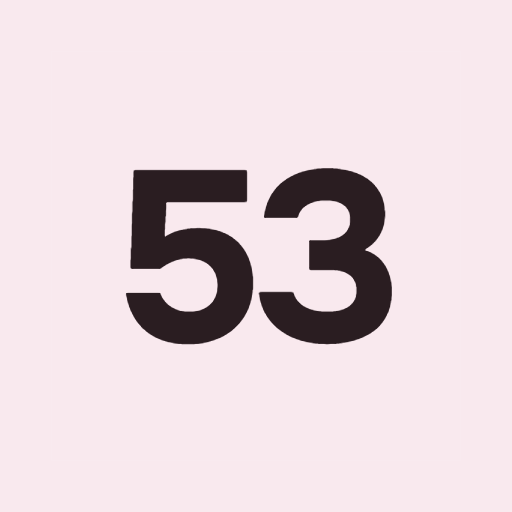
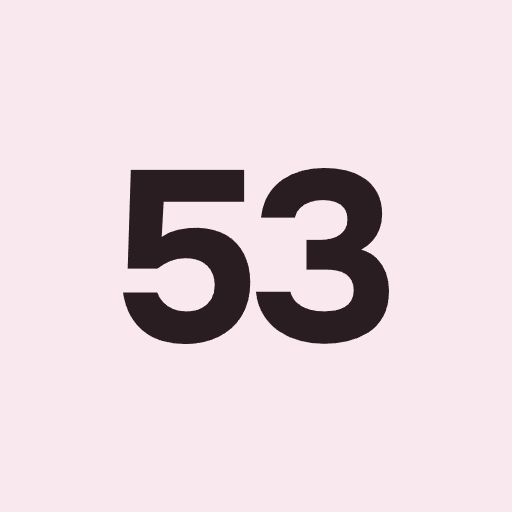
Значок 53 кривыми вместо шрифта, ссылки на значок с версией

diff --git a/tury-na-kamchatku.html b/tury-na-kamchatku.html
@@ -18,12 +18,12 @@
 <meta property="og:image:width" content="1200">
 <meta property="og:image:height" content="630">
 <meta name="twitter:card" content="summary_large_image">
-<link rel="icon" href="favicon.svg" type="image/svg+xml">
-<link rel="icon" href="favicon.ico" sizes="32x32">
-<link rel="apple-touch-icon" href="apple-touch-icon.png">
+<link rel="icon" href="favicon.svg?v=3" type="image/svg+xml">
+<link rel="icon" href="favicon.ico?v=3" sizes="32x32">
+<link rel="apple-touch-icon" href="apple-touch-icon.png?v=3">
 <link rel="manifest" href="site.webmanifest">
 <link rel="preload" href="assets/fonts/onest-cyrillic.woff2" as="font" type="font/woff2" crossorigin>
-<link rel="stylesheet" href="assets/css/styles.css?v=mvhf3xlu">
+<link rel="stylesheet" href="assets/css/styles.css?v=mvhz194c">
 <script type="application/ld+json">[{"@context":"https://schema.org","@type":"Person","name":"Елена Остащенко","jobTitle":"Преподаватель йоги, организатор йога-туров на Камчатку","url":"https://elena-53east-yoga.ru/","telephone":"+7 909 832-30-88","email":"elena.ostashenk@yandex.ru","address":{"@type":"PostalAddress","addressLocality":"Петропавловск-Камчатский","addressCountry":"RU"},"sameAs":["https://t.me/elena_53east_yoga","https://www.instagram.com/elena_53east_yoga"]},{"@context":"https://schema.org","@type":"FAQPage","mainEntity":[{"@type":"Question","name":"Можно ли пропустить восхождение или выбрать более лёгкий маршрут?","acceptedAnswer":{"@type":"Answer","text":"Да. В девятый день есть два варианта: вулкан Авача для подготовленных путешественников либо экструзия Верблюд для начинающих. Перед бронированием обсудим ваш опыт и подготовку, а решение по маршруту в конкретный день тур-лидер и гиды принимают с учётом погоды и самочувствия группы."}},{"@type":"Question","name":"Нужен ли опыт йоги для выбранного заезда и как практики сочетаются с нагрузкой на маршрутах?","acceptedAnswer":{"@type":"Answer","text":"Практики в туре ведут профильные специалисты с учётом нагрузки на маршруте и состояния каждого участника. Йога проходит вечером, после экскурсий, и помогает восстановиться после насыщенного дня. О своём опыте и подготовке можно рассказать на звонке до оплаты."}},{"@type":"Question","name":"Если я еду один или одна, как происходит подселение? Возможно ли отдельное размещение?","acceptedAnswer":{"@type":"Answer","text":"Проживание по программе в двухместных номерах. Место в номере закрепляется за участником по мере поступления заявок: верхний или нижний ярус бронируете при подтверждении заявки. Если вы едете один или одна, вас разместят вместе с другим участником группы. Возможность отдельного размещения уточните у тур-лидера при заявке."}},{"@type":"Question","name":"Что взять на маршруты и какое снаряжение предоставляют организаторы?","acceptedAnswer":{"@type":"Answer","text":"Необходимое на маршруте снаряжение входит в стоимость тура. Полный список личных вещей обсуждаем на звонке после заявки. Обязательно возьмите непромокаемую куртку и штаны, тёплую одежду слоями и головной убор, удобную обувь для треков, рюкзак, купальник и полотенце для термальных источников, налобный фонарь, powerbank, личную аптечку и солнцезащиту."}},{"@type":"Question","name":"Что произойдёт, если из-за погоды отменится морская прогулка или восхождение: замена, перенос или перерасчёт?","acceptedAnswer":{"@type":"Answer","text":"Программа может меняться в связи с погодой, решение принимается тур-лидером и гидами накануне экскурсии. Выход в море зависит от отливов и погоды на воде, поэтому дата держится гидом до последнего. Задача тур-лидера провести тур так, чтобы даже дни непогоды вы провели с наибольшим результатом и точно их не потеряли."}},{"@type":"Question","name":"Как оплачивается остаток после предоплаты 20%? Можно ли платить частями?","acceptedAnswer":{"@type":"Answer","text":"Предоплата 20% фиксирует место в группе, остаток вносится перед выездом по договоренности с тур-лидером, без скрытых доплат.\nМожно оплатить частями: рассрочка от банка либо беспроцентная рассрочка от тур-лидера, ежемесячный платёж на весь срок, с заключением договора. Детали и график платежей обсуждаем после заявки."}},{"@type":"Question","name":"Можно ли отменить участие или перенести бронь на другой заезд? Как рассчитывается возврат?","acceptedAnswer":{"@type":"Answer","text":"Условия отмены и переноса фиксируются в договоре. При отказе от участия до начала тура возвращается уплаченная сумма за вычетом фактически понесённых расходов на подготовку поездки. Перенос на другой заезд 2027 года возможен при наличии свободных мест, его обсуждаем с тур-лидером."}},{"@type":"Question","name":"Когда покупать авиабилеты — после заявки или подтверждения места? Что делать при задержке рейса?","acceptedAnswer":{"@type":"Answer","text":"Покупайте билеты после подтверждения места в группе и согласования с организатором времени прилёта. Встреча в аэропорту Елизово проходит в первый день с 09:00 до 18:00, трансфер в аэропорт в последний день в 13:00. Если рейс задерживается, сразу сообщите тур-лидеру по телефону +7 909 832-30-88, чтобы договориться о встрече."}}]},{"@context":"https://schema.org","@type":"TouristTrip","name":"Йога-тур на Камчатку 3–12 июля 2027 с Марией Хавкиной","description":"Йога-тур на Камчатку, десятидневная программа","touristType":"Йога и активный отдых","subjectOf":{"@type":"Event","name":"Йога-тур 3–12 июля 2027","startDate":"2027-07-03","endDate":"2027-07-12","eventAttendanceMode":"https://schema.org/OfflineEventAttendanceMode","location":{"@type":"Place","name":"Камчатка","address":{"@type":"PostalAddress","addressLocality":"Петропавловск-Камчатский","addressCountry":"RU"}},"organizer":{"@type":"Person","name":"Елена Остащенко","url":"https://elena-53east-yoga.ru/ob-elene.html"},"offers":{"@type":"AggregateOffer","priceCurrency":"RUB","lowPrice":230000,"highPrice":250000,"url":"https://elena-53east-yoga.ru/tury-na-kamchatku.html"}}},{"@context":"https://schema.org","@type":"TouristTrip","name":"Йога-тур на Камчатку 15–24 июля 2027 с Дмитрием Дёминым и Глебом Мазаевым","description":"Йога-тур на Камчатку, десятидневная программа","touristType":"Йога и активный отдых","subjectOf":{"@type":"Event","name":"Йога-тур 15–24 июля 2027","startDate":"2027-07-15","endDate":"2027-07-24","eventAttendanceMode":"https://schema.org/OfflineEventAttendanceMode","location":{"@type":"Place","name":"Камчатка","address":{"@type":"PostalAddress","addressLocality":"Петропавловск-Камчатский","addressCountry":"RU"}},"organizer":{"@type":"Person","name":"Елена Остащенко","url":"https://elena-53east-yoga.ru/ob-elene.html"},"offers":{"@type":"AggregateOffer","priceCurrency":"RUB","lowPrice":260000,"highPrice":280000,"url":"https://elena-53east-yoga.ru/tury-na-kamchatku.html"}}},{"@context":"https://schema.org","@type":"TouristTrip","name":"Йога-тур на Камчатку 19–28 августа 2027 с Игорем Пантюшевым","description":"Йога-тур на Камчатку, десятидневная программа","touristType":"Йога и активный отдых","subjectOf":{"@type":"Event","name":"Йога-тур 19–28 августа 2027","startDate":"2027-08-19","endDate":"2027-08-28","eventAttendanceMode":"https://schema.org/OfflineEventAttendanceMode","location":{"@type":"Place","name":"Камчатка","address":{"@type":"PostalAddress","addressLocality":"Петропавловск-Камчатский","addressCountry":"RU"}},"organizer":{"@type":"Person","name":"Елена Остащенко","url":"https://elena-53east-yoga.ru/ob-elene.html"},"offers":{"@type":"AggregateOffer","priceCurrency":"RUB","lowPrice":230000,"highPrice":250000,"url":"https://elena-53east-yoga.ru/tury-na-kamchatku.html"}}},{"@context":"https://schema.org","@type":"TouristTrip","name":"Йога-тур на Камчатку 12–19 сентября 2027 с Юлией Батыцкой","description":"Курильское озеро, отдельный восьмидневный тур","touristType":"Йога и активный отдых","subjectOf":{"@type":"Event","name":"Йога-тур 12–19 сентября 2027","startDate":"2027-09-12","endDate":"2027-09-19","eventAttendanceMode":"https://schema.org/OfflineEventAttendanceMode","location":{"@type":"Place","name":"Камчатка","address":{"@type":"PostalAddress","addressLocality":"Петропавловск-Камчатский","addressCountry":"RU"}},"organizer":{"@type":"Person","name":"Елена Остащенко","url":"https://elena-53east-yoga.ru/ob-elene.html"},"offers":{"@type":"AggregateOffer","priceCurrency":"RUB","lowPrice":230000,"highPrice":250000,"url":"https://elena-53east-yoga.ru/kurilskoe-ozero.html"}}}]</script>
 </head>
 <body class="t-sage" data-fly>
@@ -819,6 +819,6 @@
   <button class="lb__nav lb__next" type="button" data-lb-next aria-label="Следующее фото" hidden><svg class="ic" viewBox="0 0 24 24" aria-hidden="true" focusable="false"><path d="M4 12h15m-5-5 5 5-5 5"/></svg></button>
   <figure class="lb__f"><figcaption></figcaption></figure>
 </dialog>
-<script src="assets/js/script.js?v=mvhf3xlu" defer></script>
+<script src="assets/js/script.js?v=mvhz194c" defer></script>
 </body>
 </html>

diff --git a/kurilskoe-ozero.html b/kurilskoe-ozero.html
@@ -18,12 +18,12 @@
 <meta property="og:image:width" content="1200">
 <meta property="og:image:height" content="630">
 <meta name="twitter:card" content="summary_large_image">
-<link rel="icon" href="favicon.svg" type="image/svg+xml">
-<link rel="icon" href="favicon.ico" sizes="32x32">
-<link rel="apple-touch-icon" href="apple-touch-icon.png">
+<link rel="icon" href="favicon.svg?v=3" type="image/svg+xml">
+<link rel="icon" href="favicon.ico?v=3" sizes="32x32">
+<link rel="apple-touch-icon" href="apple-touch-icon.png?v=3">
 <link rel="manifest" href="site.webmanifest">
 <link rel="preload" href="assets/fonts/onest-cyrillic.woff2" as="font" type="font/woff2" crossorigin>
-<link rel="stylesheet" href="assets/css/styles.css?v=mvhf3xlu">
+<link rel="stylesheet" href="assets/css/styles.css?v=mvhz194c">
 <script type="application/ld+json">[{"@context":"https://schema.org","@type":"Person","name":"Елена Остащенко","jobTitle":"Преподаватель йоги, организатор йога-туров на Камчатку","url":"https://elena-53east-yoga.ru/","telephone":"+7 909 832-30-88","email":"elena.ostashenk@yandex.ru","address":{"@type":"PostalAddress","addressLocality":"Петропавловск-Камчатский","addressCountry":"RU"},"sameAs":["https://t.me/elena_53east_yoga","https://www.instagram.com/elena_53east_yoga"]},{"@context":"https://schema.org","@type":"FAQPage","mainEntity":[{"@type":"Question","name":"Правда ли, что к медведям можно подойти близко?","acceptedAnswer":{"@type":"Answer","text":"Наблюдение проходит с оборудованных смотровых площадок и под руководством инспектора заказника. Медведи заняты рыбой, но это дикие животные: мы движемся тихо, не отходим от группы и не оставляем еду без присмотра. Именно так можно часами смотреть, как медведи ловят нерку."}},{"@type":"Question","name":"Какая физическая нагрузка?","acceptedAnswer":{"@type":"Answer","text":"Лёгкая: пешие экскурсии до 3–4 км в день по пересечённой местности с лёгким рюкзаком. Длинные переезды проходят на транспорте и катерах. Опциональное восхождение на вулкан — отдельный разговор с группой в зависимости от погоды и самочувствия."}},{"@type":"Question","name":"Нужен ли опыт в йоге?","acceptedAnswer":{"@type":"Answer","text":"Нет. Практики проходят каждый день в размеренном темпе и подходят новичкам: если группа устала после дороги или трека, занятие адаптируется."}},{"@type":"Question","name":"Будут ли на озере мобильная связь, интернет и возможность зарядить телефон?","acceptedAnswer":{"@type":"Answer","text":"В городе интернет доступен. На кордонах Южно-Камчатского заказника связи почти нет — это часть впечатления. Перед выездом в поездку рекомендуем предупредить близких, что связь будет с перебоями. Возьмите с собой powerbank и запас батарей для фотокамеры."}},{"@type":"Question","name":"Можно ли поехать с ребёнком? Какие условия участия и стоимость для детей?","acceptedAnswer":{"@type":"Answer","text":"Да, можно. За ребёнка платится полная стоимость тура, потому что основные расходы приходятся на транспорт и проживание."}},{"@type":"Question","name":"Какая предоплата закрепляет место и когда вносится оставшаяся сумма?","acceptedAnswer":{"@type":"Answer","text":"Предоплата 20% фиксирует место в группе, остаток вносится перед выездом по договоренности с тур-лидером. Стоимость зависит от варианта размещения — от 230 000 до 250 000 ₽. Группа до 24 человек, поэтому рекомендуем не тянуть с решением."}},{"@type":"Question","name":"Что произойдёт, если погода не позволит добраться до озера или выполнить часть программы?","acceptedAnswer":{"@type":"Answer","text":"Тур рассчитан на такой сезон, водителя и маршрут, что до озера мы добираемся даже в непогоду и шторм. На самом озере жизнь не останавливается, и наблюдение за медведями в плохую погоду продолжается. Тур-лидер координирует все детали и при необходимости меняет маршрут и программу под погоду."}},{"@type":"Question","name":"Как отменить участие или перенести поездку? Какие условия возврата?","acceptedAnswer":{"@type":"Answer","text":"Условия отмены и переноса фиксируются в договоре. При отказе от участия до начала тура возвращается уплаченная сумма за вычетом фактически понесённых расходов на подготовку поездки, в том числе пропусков и бронирований. Вопрос переноса обсуждаем с тур-лидером."}}]},{"@context":"https://schema.org","@type":"TouristTrip","name":"Йога-тур на Курильское озеро с Юлией Батыцкой","description":"8 дней от Петропавловска-Камчатского до Южно-Камчатского заказника: нерест нерки, бурые медведи, ежедневные практики йоги.","subjectOf":{"@type":"Event","name":"Йога-тур на Курильское озеро 2027","startDate":"2027-09-12","endDate":"2027-09-19","eventAttendanceMode":"https://schema.org/OfflineEventAttendanceMode","location":{"@type":"Place","name":"Курильское озеро, Южно-Камчатский заказник","address":{"@type":"PostalAddress","addressRegion":"Камчатский край","addressCountry":"RU"}},"organizer":{"@type":"Person","name":"Елена Остащенко"},"performer":{"@type":"Person","name":"Юлия Батыцкая"},"offers":{"@type":"AggregateOffer","priceCurrency":"RUB","lowPrice":230000,"highPrice":250000,"url":"https://elena-53east-yoga.ru/kurilskoe-ozero.html"}}}]</script>
 </head>
 <body class="t-sage" data-fly>
@@ -435,6 +435,6 @@
   <button class="lb__nav lb__next" type="button" data-lb-next aria-label="Следующее фото" hidden><svg class="ic" viewBox="0 0 24 24" aria-hidden="true" focusable="false"><path d="M4 12h15m-5-5 5 5-5 5"/></svg></button>
   <figure class="lb__f"><figcaption></figcaption></figure>
 </dialog>
-<script src="assets/js/script.js?v=mvhf3xlu" defer></script>
+<script src="assets/js/script.js?v=mvhz194c" defer></script>
 </body>
 </html>

diff --git a/onlajn-klub.html b/onlajn-klub.html
@@ -18,13 +18,13 @@
 <meta property="og:image:width" content="1200">
 <meta property="og:image:height" content="630">
 <meta name="twitter:card" content="summary_large_image">
-<link rel="icon" href="favicon.svg" type="image/svg+xml">
-<link rel="icon" href="favicon.ico" sizes="32x32">
-<link rel="apple-touch-icon" href="apple-touch-icon.png">
+<link rel="icon" href="favicon.svg?v=3" type="image/svg+xml">
+<link rel="icon" href="favicon.ico?v=3" sizes="32x32">
+<link rel="apple-touch-icon" href="apple-touch-icon.png?v=3">
 <link rel="manifest" href="site.webmanifest">
 <link rel="preload" href="assets/fonts/onest-cyrillic.woff2" as="font" type="font/woff2" crossorigin>
 <link rel="preload" as="image" href="assets/img/club-plank-cut-hd.webp" fetchpriority="high">
-<link rel="stylesheet" href="assets/css/styles.css?v=mvhf3xlu">
+<link rel="stylesheet" href="assets/css/styles.css?v=mvhz194c">
 <script type="application/ld+json">[{"@context":"https://schema.org","@type":"Person","name":"Елена Остащенко","jobTitle":"Преподаватель йоги, организатор йога-туров на Камчатку","url":"https://elena-53east-yoga.ru/","telephone":"+7 909 832-30-88","email":"elena.ostashenk@yandex.ru","address":{"@type":"PostalAddress","addressLocality":"Петропавловск-Камчатский","addressCountry":"RU"},"sameAs":["https://t.me/elena_53east_yoga","https://www.instagram.com/elena_53east_yoga"]},{"@context":"https://schema.org","@type":"FAQPage","mainEntity":[{"@type":"Question","name":"С какой практики начать, если я раньше не занимался или давно не тренировался?","acceptedAnswer":{"@type":"Answer","text":"Начните с открытых практик на этой странице: «Зарядка для спины, МФР, пранаяма и квадрат дыхания» и «Антистресс дыхание и медитация» подходят для мягкого старта. В клубе любой уровень подготовки: и новичок, и опытный практик смогут рассчитать актуальную для себя нагрузку. Если сомневаетесь, задайте вопрос Елене до вступления."}},{"@type":"Question","name":"Получу ли я обратную связь, если занимаюсь только по записям? Как задать вопрос или показать выполнение упражнения?","acceptedAnswer":{"@type":"Answer","text":"Да. В клубе есть чат поддержки и возможность задать вопрос тренеру, даже если вы занимаетесь только в записи. Как удобнее показать выполнение упражнения, договоритесь с Еленой в чате."}},{"@type":"Question","name":"Какое оборудование и техника нужны для занятий дома?","acceptedAnswer":{"@type":"Answer","text":"Устройство с доступом в интернет: компьютер, ноутбук, планшет или смартфон, рекомендуемая скорость не менее 2 Мбит/с. Для практики понадобятся коврик и немного свободного места. Если для занятия нужно что-то ещё, Елена предупредит заранее."}},{"@type":"Question","name":"На какой срок открывается библиотека? Сохраняется ли доступ после окончания оплаченного месяца?","acceptedAnswer":{"@type":"Answer","text":"Записи эфиров и библиотека 60+ занятий доступны участникам клуба на время оплаченного участия. Точный срок хранения записей после окончания месяца уточните у Елены перед оплатой."}},{"@type":"Question","name":"Как продлевается участие: самостоятельная оплата или автоматическое списание?","acceptedAnswer":{"@type":"Answer","text":"Участие оплачивается помесячно, 2700 рублей в месяц. Порядок продления показывается на платформе клуба при оформлении. Если что-то непонятно, напишите Елене до оплаты."}},{"@type":"Question","name":"Можно ли приостановить участие или отказаться от него? Какие условия возврата?","acceptedAnswer":{"@type":"Answer","text":"Отказаться от услуг можно в любое время, направив уведомление по электронной почте или через форму на сайте. Условия возврата описаны в разделе 9 публичной оферты: до начала занятий возвращается сумма за вычетом фактически понесённых расходов, после начала — пропорционально неиспользованным занятиям. Деньги возвращаются в течение 3 рабочих дней после заявления."}},{"@type":"Question","name":"Что делать, если после оплаты не пришло письмо или не получается войти?","acceptedAnswer":{"@type":"Answer","text":"Проверьте папку «Спам» и адрес почты, указанный при оформлении. Если письма нет, напишите Елене в Telegram или на elena.ostashenk@yandex.ru, и доступ восстановят."}},{"@type":"Question","name":"Как пользоваться клубом всей семьёй: достаточно одного доступа или нужно отдельное участие?","acceptedAnswer":{"@type":"Answer","text":"Клуб задуман так, чтобы заниматься в удобное время, в удобном месте и всей семьёй. Подойдёт ли один доступ именно вашей семье, уточните у Елены перед оплатой."}}]},{"@context":"https://schema.org","@type":"Service","name":"Онлайн-клуб «Йога на 53 широте»","serviceType":"Онлайн-занятия йогой","provider":{"@type":"Person","name":"Елена Остащенко"},"areaServed":"RU","offers":{"@type":"Offer","price":2700,"priceCurrency":"RUB","url":"https://elena-53east-yoga.ru/onlajn-klub.html"}}]</script>
 </head>
 <body class="t-pink">
@@ -396,6 +396,6 @@
   <button class="lb__nav lb__next" type="button" data-lb-next aria-label="Следующее фото" hidden><svg class="ic" viewBox="0 0 24 24" aria-hidden="true" focusable="false"><path d="M4 12h15m-5-5 5 5-5 5"/></svg></button>
   <figure class="lb__f"><figcaption></figcaption></figure>
 </dialog>
-<script src="assets/js/script.js?v=mvhf3xlu" defer></script>
+<script src="assets/js/script.js?v=mvhz194c" defer></script>
 </body>
 </html>

diff --git a/zanyatiya.html b/zanyatiya.html
@@ -18,12 +18,12 @@
 <meta property="og:image:width" content="1200">
 <meta property="og:image:height" content="630">
 <meta name="twitter:card" content="summary_large_image">
-<link rel="icon" href="favicon.svg" type="image/svg+xml">
-<link rel="icon" href="favicon.ico" sizes="32x32">
-<link rel="apple-touch-icon" href="apple-touch-icon.png">
+<link rel="icon" href="favicon.svg?v=3" type="image/svg+xml">
+<link rel="icon" href="favicon.ico?v=3" sizes="32x32">
+<link rel="apple-touch-icon" href="apple-touch-icon.png?v=3">
 <link rel="manifest" href="site.webmanifest">
 <link rel="preload" href="assets/fonts/onest-cyrillic.woff2" as="font" type="font/woff2" crossorigin>
-<link rel="stylesheet" href="assets/css/styles.css?v=mvhf3xlu">
+<link rel="stylesheet" href="assets/css/styles.css?v=mvhz194c">
 <script type="application/ld+json">[{"@context":"https://schema.org","@type":"Person","name":"Елена Остащенко","jobTitle":"Преподаватель йоги, организатор йога-туров на Камчатку","url":"https://elena-53east-yoga.ru/","telephone":"+7 909 832-30-88","email":"elena.ostashenk@yandex.ru","address":{"@type":"PostalAddress","addressLocality":"Петропавловск-Камчатский","addressCountry":"RU"},"sameAs":["https://t.me/elena_53east_yoga","https://www.instagram.com/elena_53east_yoga"]},{"@context":"https://schema.org","@type":"FAQPage","mainEntity":[{"@type":"Question","name":"Как выбрать между групповой и персональной практикой, если начинаю впервые?","acceptedAnswer":{"@type":"Answer","text":"Групповые занятия в PROTEIN подойдут, если хочется заниматься по расписанию в компании: Елена подробно объясняет каждую асану и помогает рассчитать нагрузку. Персональная тренировка подойдёт, если нужен план под ваши задачи: она начинается с тестирования физического состояния. Если сомневаетесь, напишите Елене, она подскажет."}},{"@type":"Question","name":"Можно ли посетить групповое занятие без абонемента PROTEIN? Как оплачивается первое посещение?","acceptedAnswer":{"@type":"Answer","text":"Условия разового посещения и оплаты устанавливает фитнес-клуб PROTEIN. Уточните их у администратора или на официальном сайте клуба, а Елена подскажет, на какое занятие лучше прийти."}},{"@type":"Question","name":"Что взять на первое занятие? Предоставляется ли оборудование?","acceptedAnswer":{"@type":"Answer","text":"Удобную одежду, которая не сковывает движения, и воду. Наличие ковриков в зале уточните заранее. Перед первым занятием расскажите Елене о состоянии здоровья и противопоказаниях."}},{"@type":"Question","name":"Как выбрать место персональной тренировки? Кто оплачивает аренду студии и выезд?","acceptedAnswer":{"@type":"Answer","text":"Тренер выезжает к вам в удобное время и место по взаимной договоренности, в отдаленные районы за доплату. Есть возможность аренды студии. Место, время и стоимость аренды согласуем до оплаты."}},{"@type":"Question","name":"За какое время нужно предупредить о переносе или отмене тренировки?","acceptedAnswer":{"@type":"Answer","text":"Для офлайн-занятий не менее чем за 12 часов до начала. При более поздней отмене или неявке занятие считается проведённым. Подробно в разделе 7 публичной оферты."}},{"@type":"Question","name":"Какие требования к помещению и оборудованию для корпоративной практики?","acceptedAnswer":{"@type":"Answer","text":"Зал, оборудование и коллектив предоставляет принимающая сторона, тренер приносит знания, опыт и время. Площадь зала и количество ковриков обсуждаем при согласовании."}},{"@type":"Question","name":"Можно ли организовать регулярные корпоративные занятия? Как согласуются график и условия?","acceptedAnswer":{"@type":"Answer","text":"Да. Практика 60 минут стоит 8000 рублей вне зависимости от количества практикующих. График и условия фиксируем в договоре."}}]},{"@context":"https://schema.org","@type":"Service","name":"Персональные тренировки по йоге","provider":{"@type":"Person","name":"Елена Остащенко"},"areaServed":"Петропавловск-Камчатский","offers":[{"@type":"Offer","price":4000,"priceCurrency":"RUB","name":"1 чел., 60 минут"},{"@type":"Offer","price":5000,"priceCurrency":"RUB","name":"2 чел., 60 минут"},{"@type":"Offer","price":6000,"priceCurrency":"RUB","name":"3 чел., 60 минут"}]}]</script>
 </head>
 <body class="t-pink">
@@ -376,6 +376,6 @@
   <button class="lb__nav lb__next" type="button" data-lb-next aria-label="Следующее фото" hidden><svg class="ic" viewBox="0 0 24 24" aria-hidden="true" focusable="false"><path d="M4 12h15m-5-5 5 5-5 5"/></svg></button>
   <figure class="lb__f"><figcaption></figcaption></figure>
 </dialog>
-<script src="assets/js/script.js?v=mvhf3xlu" defer></script>
+<script src="assets/js/script.js?v=mvhz194c" defer></script>
 </body>
 </html>

diff --git a/organizaciya-tura.html b/organizaciya-tura.html
@@ -18,12 +18,12 @@
 <meta property="og:image:width" content="1200">
 <meta property="og:image:height" content="630">
 <meta name="twitter:card" content="summary_large_image">
-<link rel="icon" href="favicon.svg" type="image/svg+xml">
-<link rel="icon" href="favicon.ico" sizes="32x32">
-<link rel="apple-touch-icon" href="apple-touch-icon.png">
+<link rel="icon" href="favicon.svg?v=3" type="image/svg+xml">
+<link rel="icon" href="favicon.ico?v=3" sizes="32x32">
+<link rel="apple-touch-icon" href="apple-touch-icon.png?v=3">
 <link rel="manifest" href="site.webmanifest">
 <link rel="preload" href="assets/fonts/onest-cyrillic.woff2" as="font" type="font/woff2" crossorigin>
-<link rel="stylesheet" href="assets/css/styles.css?v=mvhf3xlu">
+<link rel="stylesheet" href="assets/css/styles.css?v=mvhz194c">
 <script type="application/ld+json">[{"@context":"https://schema.org","@type":"Person","name":"Елена Остащенко","jobTitle":"Преподаватель йоги, организатор йога-туров на Камчатку","url":"https://elena-53east-yoga.ru/","telephone":"+7 909 832-30-88","email":"elena.ostashenk@yandex.ru","address":{"@type":"PostalAddress","addressLocality":"Петропавловск-Камчатский","addressCountry":"RU"},"sameAs":["https://t.me/elena_53east_yoga","https://www.instagram.com/elena_53east_yoga"]},{"@context":"https://schema.org","@type":"FAQPage","mainEntity":[{"@type":"Question","name":"Что покрывает стоимость организации 15 000 ₽ за участника, а какие расходы группы оплачиваются отдельно?","acceptedAnswer":{"@type":"Answer","text":"15 000 рублей за участника — работа организатора с начала взаимодействия и до убытия группы: определение стоимости тура, взаимодействие с исполнителями и полное сопровождение, организация проживания и питания, закрытие всех потребностей участников. Проживание, питание, транспорт и экскурсии оплачиваются по стоимости исполнителей. Сценарий и лендинг, проведение практики Еленой и участие приглашённым экспертом оплачиваются отдельно."}},{"@type":"Question","name":"Можно ли приехать со своим преподавателем и заказать только организацию?","acceptedAnswer":{"@type":"Answer","text":"Да, можно приехать со своим преподавателем. Преподавание в туре идёт отдельной опцией, поэтому организацию можно заказать без неё."}},{"@type":"Question","name":"Можно ли разработать маршрут под нашу группу? Какие направления доступны?","acceptedAnswer":{"@type":"Answer","text":"Да, сценарий разрабатывается под вашу группу, это отдельная услуга. Елена организовывала и сопровождала поездки по Камчатке и в Индию. Направление и программу обсуждаем на первом созвоне."}},{"@type":"Question","name":"За сколько времени нужно обращаться и какой размер группы возможен?","acceptedAnswer":{"@type":"Answer","text":"Работа над камчатским туром начинается примерно за год: заранее бронируются транспорт, гостиницы и повара. Чем раньше вы обратитесь, тем больше вариантов. В проведённых турах были группы от 6 до 23 участников."}},{"@type":"Question","name":"Как изменятся стоимость и бронирования, если число участников поменяется?","acceptedAnswer":{"@type":"Answer","text":"Стоимость организации считается за каждого участника и меняется вместе с размером группы. Как изменение повлияет на бронирования у исполнителей, обсуждаем сразу, как только оно становится известно."}},{"@type":"Question","name":"Каковы условия предоплаты, отмены и переноса тура для группы?","acceptedAnswer":{"@type":"Answer","text":"Условия предоплаты, отмены и переноса фиксируются в договоре и зависят от условий бронирования у исполнителей. Их согласуем до начала подготовки."}}]}]</script>
 </head>
 <body class="t-sage">
@@ -330,6 +330,6 @@
   <button class="lb__nav lb__next" type="button" data-lb-next aria-label="Следующее фото" hidden><svg class="ic" viewBox="0 0 24 24" aria-hidden="true" focusable="false"><path d="M4 12h15m-5-5 5 5-5 5"/></svg></button>
   <figure class="lb__f"><figcaption></figcaption></figure>
 </dialog>
-<script src="assets/js/script.js?v=mvhf3xlu" defer></script>
+<script src="assets/js/script.js?v=mvhz194c" defer></script>
 </body>
 </html>

diff --git a/mariya-havkina-vizitka.html b/mariya-havkina-vizitka.html
@@ -18,12 +18,12 @@
 <meta property="og:image:width" content="1200">
 <meta property="og:image:height" content="630">
 <meta name="twitter:card" content="summary_large_image">
-<link rel="icon" href="favicon.svg" type="image/svg+xml">
-<link rel="icon" href="favicon.ico" sizes="32x32">
-<link rel="apple-touch-icon" href="apple-touch-icon.png">
+<link rel="icon" href="favicon.svg?v=3" type="image/svg+xml">
+<link rel="icon" href="favicon.ico?v=3" sizes="32x32">
+<link rel="apple-touch-icon" href="apple-touch-icon.png?v=3">
 <link rel="manifest" href="site.webmanifest">
 <link rel="preload" href="assets/fonts/onest-cyrillic.woff2" as="font" type="font/woff2" crossorigin>
-<link rel="stylesheet" href="assets/css/styles.css?v=mvhf3xlu">
+<link rel="stylesheet" href="assets/css/styles.css?v=mvhz194c">
 <script type="application/ld+json">[{"@context":"https://schema.org","@type":"Person","name":"Елена Остащенко","jobTitle":"Преподаватель йоги, организатор йога-туров на Камчатку","url":"https://elena-53east-yoga.ru/","telephone":"+7 909 832-30-88","email":"elena.ostashenk@yandex.ru","address":{"@type":"PostalAddress","addressLocality":"Петропавловск-Камчатский","addressCountry":"RU"},"sameAs":["https://t.me/elena_53east_yoga","https://www.instagram.com/elena_53east_yoga"]},{"@context":"https://schema.org","@type":"Person","name":"Мария Хавкина","jobTitle":"Врач, йогатерапевт, психолог","image":"https://elena-53east-yoga.ru/assets/img/maria-2.webp","sameAs":["https://t.me/mary_pishet","https://vk.com/ehi_lesnaja"]},{"@context":"https://schema.org","@type":"BreadcrumbList","itemListElement":[{"@type":"ListItem","position":1,"name":"Главная","item":"https://elena-53east-yoga.ru/"},{"@type":"ListItem","position":2,"name":"Преподаватели","item":"https://elena-53east-yoga.ru/prepodavateli.html"},{"@type":"ListItem","position":3,"name":"Мария Хавкина","item":"https://elena-53east-yoga.ru/mariya-havkina.html"},{"@type":"ListItem","position":4,"name":"Визитка","item":"https://elena-53east-yoga.ru/mariya-havkina-vizitka.html"}]}]</script>
 </head>
 <body class="t-pink">
@@ -281,6 +281,6 @@
   <button class="lb__nav lb__next" type="button" data-lb-next aria-label="Следующее фото" hidden><svg class="ic" viewBox="0 0 24 24" aria-hidden="true" focusable="false"><path d="M4 12h15m-5-5 5 5-5 5"/></svg></button>
   <figure class="lb__f"><figcaption></figcaption></figure>
 </dialog>
-<script src="assets/js/script.js?v=mvhf3xlu" defer></script>
+<script src="assets/js/script.js?v=mvhz194c" defer></script>
 </body>
 </html>

diff --git a/mariya-havkina.html b/mariya-havkina.html
@@ -18,12 +18,12 @@
 <meta property="og:image:width" content="1200">
 <meta property="og:image:height" content="630">
 <meta name="twitter:card" content="summary_large_image">
-<link rel="icon" href="favicon.svg" type="image/svg+xml">
-<link rel="icon" href="favicon.ico" sizes="32x32">
-<link rel="apple-touch-icon" href="apple-touch-icon.png">
+<link rel="icon" href="favicon.svg?v=3" type="image/svg+xml">
+<link rel="icon" href="favicon.ico?v=3" sizes="32x32">
+<link rel="apple-touch-icon" href="apple-touch-icon.png?v=3">
 <link rel="manifest" href="site.webmanifest">
 <link rel="preload" href="assets/fonts/onest-cyrillic.woff2" as="font" type="font/woff2" crossorigin>
-<link rel="stylesheet" href="assets/css/styles.css?v=mvhf3xlu">
+<link rel="stylesheet" href="assets/css/styles.css?v=mvhz194c">
 <script type="application/ld+json">[{"@context":"https://schema.org","@type":"Person","name":"Елена Остащенко","jobTitle":"Преподаватель йоги, организатор йога-туров на Камчатку","url":"https://elena-53east-yoga.ru/","telephone":"+7 909 832-30-88","email":"elena.ostashenk@yandex.ru","address":{"@type":"PostalAddress","addressLocality":"Петропавловск-Камчатский","addressCountry":"RU"},"sameAs":["https://t.me/elena_53east_yoga","https://www.instagram.com/elena_53east_yoga"]},{"@context":"https://schema.org","@type":"Person","name":"Мария Хавкина","jobTitle":"Врач, йогатерапевт, психолог","image":"https://elena-53east-yoga.ru/assets/img/maria-2.webp","sameAs":["https://t.me/mary_pishet","https://vk.com/ehi_lesnaja"]},{"@context":"https://schema.org","@type":"BreadcrumbList","itemListElement":[{"@type":"ListItem","position":1,"name":"Главная","item":"https://elena-53east-yoga.ru/"},{"@type":"ListItem","position":2,"name":"Преподаватели","item":"https://elena-53east-yoga.ru/prepodavateli.html"},{"@type":"ListItem","position":3,"name":"Мария Хавкина","item":"https://elena-53east-yoga.ru/mariya-havkina.html"}]}]</script>
 </head>
 <body class="t-pink">
@@ -217,6 +217,6 @@
   <button class="lb__nav lb__next" type="button" data-lb-next aria-label="Следующее фото" hidden><svg class="ic" viewBox="0 0 24 24" aria-hidden="true" focusable="false"><path d="M4 12h15m-5-5 5 5-5 5"/></svg></button>
   <figure class="lb__f"><figcaption></figcaption></figure>
 </dialog>
-<script src="assets/js/script.js?v=mvhf3xlu" defer></script>
+<script src="assets/js/script.js?v=mvhz194c" defer></script>
 </body>
 </html>

diff --git a/yuliya-batyckaya.html b/yuliya-batyckaya.html
@@ -18,12 +18,12 @@
 <meta property="og:image:width" content="1200">
 <meta property="og:image:height" content="630">
 <meta name="twitter:card" content="summary_large_image">
-<link rel="icon" href="favicon.svg" type="image/svg+xml">
-<link rel="icon" href="favicon.ico" sizes="32x32">
-<link rel="apple-touch-icon" href="apple-touch-icon.png">
+<link rel="icon" href="favicon.svg?v=3" type="image/svg+xml">
+<link rel="icon" href="favicon.ico?v=3" sizes="32x32">
+<link rel="apple-touch-icon" href="apple-touch-icon.png?v=3">
 <link rel="manifest" href="site.webmanifest">
 <link rel="preload" href="assets/fonts/onest-cyrillic.woff2" as="font" type="font/woff2" crossorigin>
-<link rel="stylesheet" href="assets/css/styles.css?v=mvhf3xlu">
+<link rel="stylesheet" href="assets/css/styles.css?v=mvhz194c">
 <script type="application/ld+json">[{"@context":"https://schema.org","@type":"Person","name":"Елена Остащенко","jobTitle":"Преподаватель йоги, организатор йога-туров на Камчатку","url":"https://elena-53east-yoga.ru/","telephone":"+7 909 832-30-88","email":"elena.ostashenk@yandex.ru","address":{"@type":"PostalAddress","addressLocality":"Петропавловск-Камчатский","addressCountry":"RU"},"sameAs":["https://t.me/elena_53east_yoga","https://www.instagram.com/elena_53east_yoga"]},{"@context":"https://schema.org","@type":"Person","name":"Юлия Батыцкая","jobTitle":"Преподаватель йоги, йогатерапевт","image":"https://elena-53east-yoga.ru/assets/img/yulia-1.webp","sameAs":["https://t.me/JByoga"]},{"@context":"https://schema.org","@type":"BreadcrumbList","itemListElement":[{"@type":"ListItem","position":1,"name":"Главная","item":"https://elena-53east-yoga.ru/"},{"@type":"ListItem","position":2,"name":"Преподаватели","item":"https://elena-53east-yoga.ru/prepodavateli.html"},{"@type":"ListItem","position":3,"name":"Юлия Батыцкая","item":"https://elena-53east-yoga.ru/yuliya-batyckaya.html"}]}]</script>
 </head>
 <body class="t-pink">
@@ -280,6 +280,6 @@
   <button class="lb__nav lb__next" type="button" data-lb-next aria-label="Следующее фото" hidden><svg class="ic" viewBox="0 0 24 24" aria-hidden="true" focusable="false"><path d="M4 12h15m-5-5 5 5-5 5"/></svg></button>
   <figure class="lb__f"><figcaption></figcaption></figure>
 </dialog>
-<script src="assets/js/script.js?v=mvhf3xlu" defer></script>
+<script src="assets/js/script.js?v=mvhz194c" defer></script>
 </body>
 </html>

diff --git a/igor-pantyushev.html b/igor-pantyushev.html
@@ -18,12 +18,12 @@
 <meta property="og:image:width" content="1200">
 <meta property="og:image:height" content="630">
 <meta name="twitter:card" content="summary_large_image">
-<link rel="icon" href="favicon.svg" type="image/svg+xml">
-<link rel="icon" href="favicon.ico" sizes="32x32">
-<link rel="apple-touch-icon" href="apple-touch-icon.png">
+<link rel="icon" href="favicon.svg?v=3" type="image/svg+xml">
+<link rel="icon" href="favicon.ico?v=3" sizes="32x32">
+<link rel="apple-touch-icon" href="apple-touch-icon.png?v=3">
 <link rel="manifest" href="site.webmanifest">
 <link rel="preload" href="assets/fonts/onest-cyrillic.woff2" as="font" type="font/woff2" crossorigin>
-<link rel="stylesheet" href="assets/css/styles.css?v=mvhf3xlu">
+<link rel="stylesheet" href="assets/css/styles.css?v=mvhz194c">
 <script type="application/ld+json">[{"@context":"https://schema.org","@type":"Person","name":"Елена Остащенко","jobTitle":"Преподаватель йоги, организатор йога-туров на Камчатку","url":"https://elena-53east-yoga.ru/","telephone":"+7 909 832-30-88","email":"elena.ostashenk@yandex.ru","address":{"@type":"PostalAddress","addressLocality":"Петропавловск-Камчатский","addressCountry":"RU"},"sameAs":["https://t.me/elena_53east_yoga","https://www.instagram.com/elena_53east_yoga"]},{"@context":"https://schema.org","@type":"Person","name":"Игорь Пантюшев","jobTitle":"Преподаватель йоги","image":"https://elena-53east-yoga.ru/assets/img/igor-2.webp"},{"@context":"https://schema.org","@type":"BreadcrumbList","itemListElement":[{"@type":"ListItem","position":1,"name":"Главная","item":"https://elena-53east-yoga.ru/"},{"@type":"ListItem","position":2,"name":"Преподаватели","item":"https://elena-53east-yoga.ru/prepodavateli.html"},{"@type":"ListItem","position":3,"name":"Игорь Пантюшев","item":"https://elena-53east-yoga.ru/igor-pantyushev.html"}]}]</script>
 </head>
 <body class="t-pink">
@@ -283,6 +283,6 @@
   <button class="lb__nav lb__next" type="button" data-lb-next aria-label="Следующее фото" hidden><svg class="ic" viewBox="0 0 24 24" aria-hidden="true" focusable="false"><path d="M4 12h15m-5-5 5 5-5 5"/></svg></button>
   <figure class="lb__f"><figcaption></figcaption></figure>
 </dialog>
-<script src="assets/js/script.js?v=mvhf3xlu" defer></script>
+<script src="assets/js/script.js?v=mvhz194c" defer></script>
 </body>
 </html>

diff --git a/dmitrij-demin.html b/dmitrij-demin.html
@@ -18,12 +18,12 @@
 <meta property="og:image:width" content="1200">
 <meta property="og:image:height" content="630">
 <meta name="twitter:card" content="summary_large_image">
-<link rel="icon" href="favicon.svg" type="image/svg+xml">
-<link rel="icon" href="favicon.ico" sizes="32x32">
-<link rel="apple-touch-icon" href="apple-touch-icon.png">
+<link rel="icon" href="favicon.svg?v=3" type="image/svg+xml">
+<link rel="icon" href="favicon.ico?v=3" sizes="32x32">
+<link rel="apple-touch-icon" href="apple-touch-icon.png?v=3">
 <link rel="manifest" href="site.webmanifest">
 <link rel="preload" href="assets/fonts/onest-cyrillic.woff2" as="font" type="font/woff2" crossorigin>
-<link rel="stylesheet" href="assets/css/styles.css?v=mvhf3xlu">
+<link rel="stylesheet" href="assets/css/styles.css?v=mvhz194c">
 <script type="application/ld+json">[{"@context":"https://schema.org","@type":"Person","name":"Елена Остащенко","jobTitle":"Преподаватель йоги, организатор йога-туров на Камчатку","url":"https://elena-53east-yoga.ru/","telephone":"+7 909 832-30-88","email":"elena.ostashenk@yandex.ru","address":{"@type":"PostalAddress","addressLocality":"Петропавловск-Камчатский","addressCountry":"RU"},"sameAs":["https://t.me/elena_53east_yoga","https://www.instagram.com/elena_53east_yoga"]},{"@context":"https://schema.org","@type":"Person","name":"Дмитрий Дёмин","jobTitle":"Преподаватель йоги","image":"https://elena-53east-yoga.ru/assets/img/dmitrij-4.webp"},{"@context":"https://schema.org","@type":"BreadcrumbList","itemListElement":[{"@type":"ListItem","position":1,"name":"Главная","item":"https://elena-53east-yoga.ru/"},{"@type":"ListItem","position":2,"name":"Преподаватели","item":"https://elena-53east-yoga.ru/prepodavateli.html"},{"@type":"ListItem","position":3,"name":"Дмитрий Дёмин","item":"https://elena-53east-yoga.ru/dmitrij-demin.html"}]}]</script>
 </head>
 <body class="t-pink">
@@ -285,6 +285,6 @@
   <button class="lb__nav lb__next" type="button" data-lb-next aria-label="Следующее фото" hidden><svg class="ic" viewBox="0 0 24 24" aria-hidden="true" focusable="false"><path d="M4 12h15m-5-5 5 5-5 5"/></svg></button>
   <figure class="lb__f"><figcaption></figcaption></figure>
 </dialog>
-<script src="assets/js/script.js?v=mvhf3xlu" defer></script>
+<script src="assets/js/script.js?v=mvhz194c" defer></script>
 </body>
 </html>

diff --git a/gleb-mazaev.html b/gleb-mazaev.html
@@ -18,12 +18,12 @@
 <meta property="og:image:width" content="1200">
 <meta property="og:image:height" content="630">
 <meta name="twitter:card" content="summary_large_image">
-<link rel="icon" href="favicon.svg" type="image/svg+xml">
-<link rel="icon" href="favicon.ico" sizes="32x32">
-<link rel="apple-touch-icon" href="apple-touch-icon.png">
+<link rel="icon" href="favicon.svg?v=3" type="image/svg+xml">
+<link rel="icon" href="favicon.ico?v=3" sizes="32x32">
+<link rel="apple-touch-icon" href="apple-touch-icon.png?v=3">
 <link rel="manifest" href="site.webmanifest">
 <link rel="preload" href="assets/fonts/onest-cyrillic.woff2" as="font" type="font/woff2" crossorigin>
-<link rel="stylesheet" href="assets/css/styles.css?v=mvhf3xlu">
+<link rel="stylesheet" href="assets/css/styles.css?v=mvhz194c">
 <script type="application/ld+json">[{"@context":"https://schema.org","@type":"Person","name":"Елена Остащенко","jobTitle":"Преподаватель йоги, организатор йога-туров на Камчатку","url":"https://elena-53east-yoga.ru/","telephone":"+7 909 832-30-88","email":"elena.ostashenk@yandex.ru","address":{"@type":"PostalAddress","addressLocality":"Петропавловск-Камчатский","addressCountry":"RU"},"sameAs":["https://t.me/elena_53east_yoga","https://www.instagram.com/elena_53east_yoga"]},{"@context":"https://schema.org","@type":"Person","name":"Глеб Мазаев","jobTitle":"Преподаватель йоги","image":"https://elena-53east-yoga.ru/assets/img/gleb-4.webp"},{"@context":"https://schema.org","@type":"BreadcrumbList","itemListElement":[{"@type":"ListItem","position":1,"name":"Главная","item":"https://elena-53east-yoga.ru/"},{"@type":"ListItem","position":2,"name":"Преподаватели","item":"https://elena-53east-yoga.ru/prepodavateli.html"},{"@type":"ListItem","position":3,"name":"Глеб Мазаев","item":"https://elena-53east-yoga.ru/gleb-mazaev.html"}]}]</script>
 </head>
 <body class="t-pink">
@@ -279,6 +279,6 @@
   <button class="lb__nav lb__next" type="button" data-lb-next aria-label="Следующее фото" hidden><svg class="ic" viewBox="0 0 24 24" aria-hidden="true" focusable="false"><path d="M4 12h15m-5-5 5 5-5 5"/></svg></button>
   <figure class="lb__f"><figcaption></figcaption></figure>
 </dialog>
-<script src="assets/js/script.js?v=mvhf3xlu" defer></script>
+<script src="assets/js/script.js?v=mvhz194c" defer></script>
 </body>
 </html>

diff --git a/pravovaya-informaciya.html b/pravovaya-informaciya.html
@@ -18,12 +18,12 @@
 <meta property="og:image:width" content="1200">
 <meta property="og:image:height" content="630">
 <meta name="twitter:card" content="summary_large_image">
-<link rel="icon" href="favicon.svg" type="image/svg+xml">
-<link rel="icon" href="favicon.ico" sizes="32x32">
-<link rel="apple-touch-icon" href="apple-touch-icon.png">
+<link rel="icon" href="favicon.svg?v=3" type="image/svg+xml">
+<link rel="icon" href="favicon.ico?v=3" sizes="32x32">
+<link rel="apple-touch-icon" href="apple-touch-icon.png?v=3">
 <link rel="manifest" href="site.webmanifest">
 <link rel="preload" href="assets/fonts/onest-cyrillic.woff2" as="font" type="font/woff2" crossorigin>
-<link rel="stylesheet" href="assets/css/styles.css?v=mvhf3xlu">
+<link rel="stylesheet" href="assets/css/styles.css?v=mvhz194c">
 <script type="application/ld+json">[{"@context":"https://schema.org","@type":"Person","name":"Елена Остащенко","jobTitle":"Преподаватель йоги, организатор йога-туров на Камчатку","url":"https://elena-53east-yoga.ru/","telephone":"+7 909 832-30-88","email":"elena.ostashenk@yandex.ru","address":{"@type":"PostalAddress","addressLocality":"Петропавловск-Камчатский","addressCountry":"RU"},"sameAs":["https://t.me/elena_53east_yoga","https://www.instagram.com/elena_53east_yoga"]},{"@context":"https://schema.org","@type":"BreadcrumbList","itemListElement":[{"@type":"ListItem","position":1,"name":"Главная","item":"https://elena-53east-yoga.ru/"},{"@type":"ListItem","position":2,"name":"Правовая информация","item":"https://elena-53east-yoga.ru/pravovaya-informaciya.html"}]}]</script>
 </head>
 <body class="t-pink">
@@ -387,6 +387,6 @@
   <button class="lb__nav lb__next" type="button" data-lb-next aria-label="Следующее фото" hidden><svg class="ic" viewBox="0 0 24 24" aria-hidden="true" focusable="false"><path d="M4 12h15m-5-5 5 5-5 5"/></svg></button>
   <figure class="lb__f"><figcaption></figcaption></figure>
 </dialog>
-<script src="assets/js/script.js?v=mvhf3xlu" defer></script>
+<script src="assets/js/script.js?v=mvhz194c" defer></script>
 </body>
 </html>
